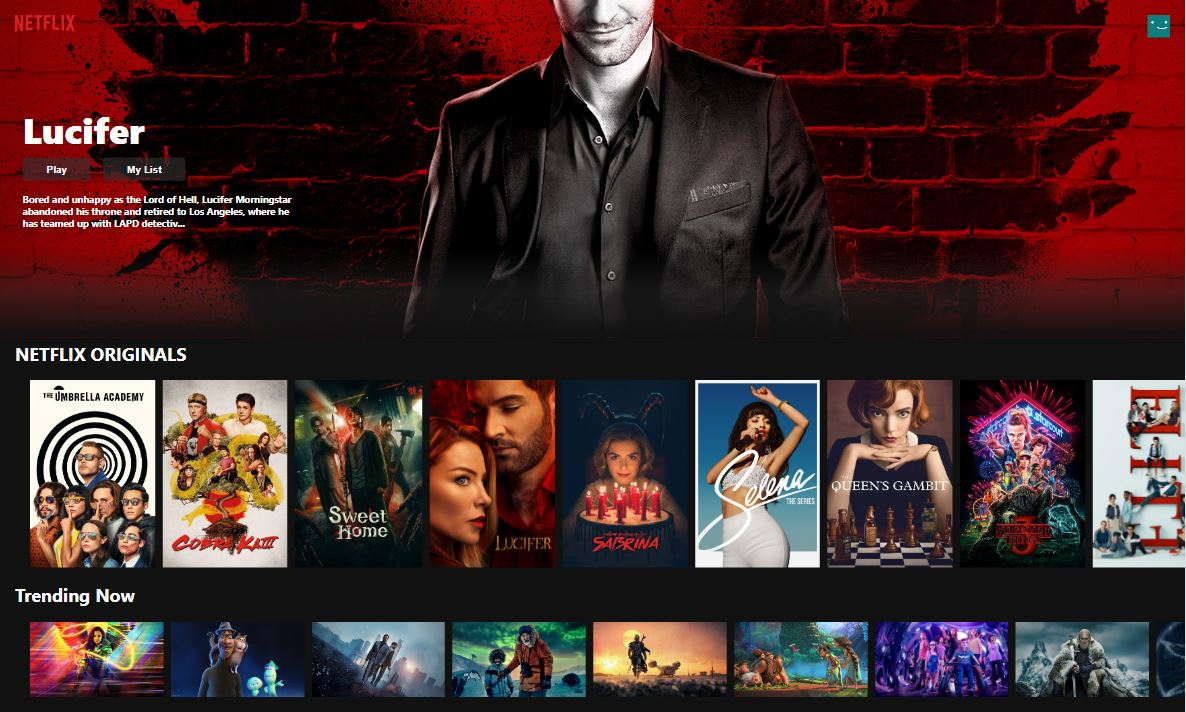
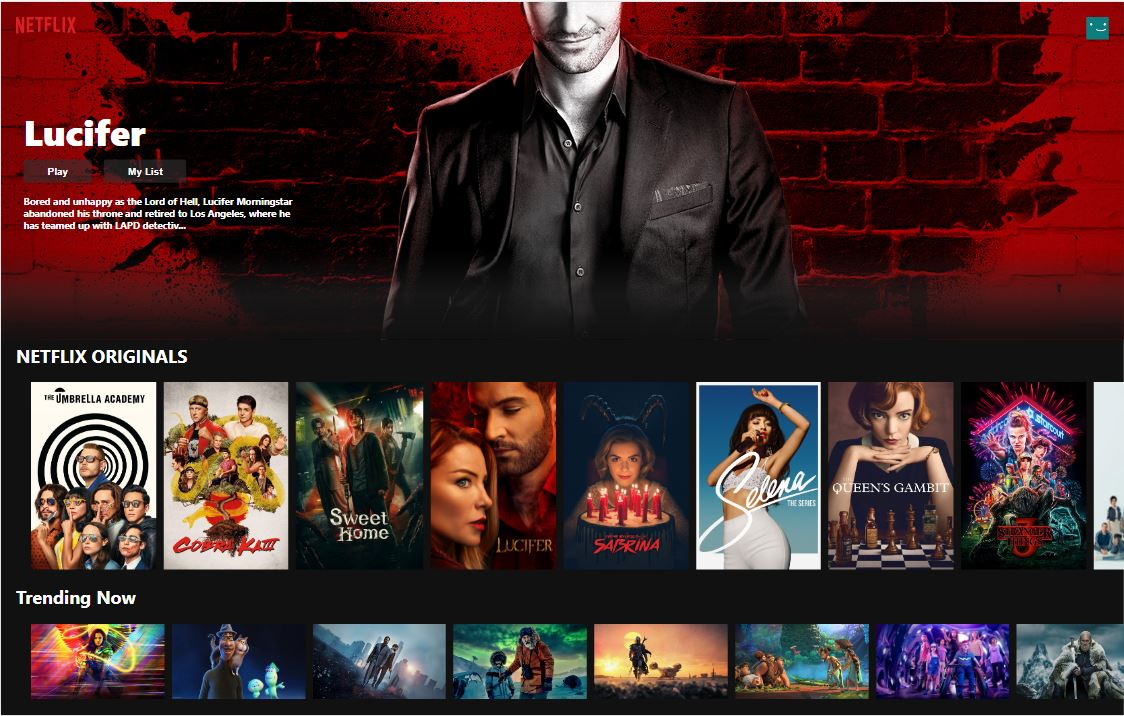
preview update

diff --git a/README.md b/README.md
@@ -4,7 +4,7 @@ This is a Netflix clone built with React. It uses the TMDB API to pull informati
 
 Checkout the [Live Demo](https://netflix-clone-an.web.app/)
 
-![Homepage](images/home.JPG)
+![Homepage](images/demo.gif)
 
 ## Getting Started
 
